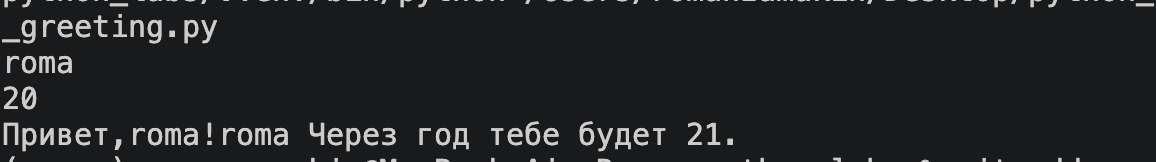
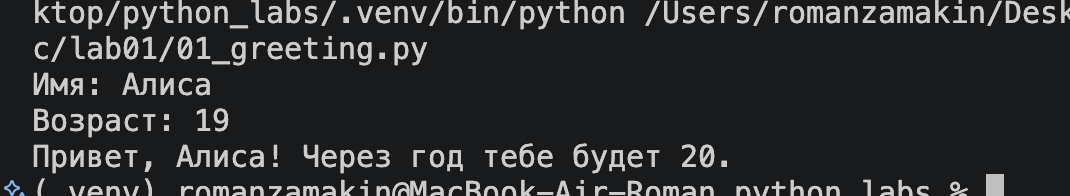
lab01 finish with readme

diff --git a/src/lab01/ex07.py b/src/lab01/ex07.py
@@ -10,12 +10,12 @@ for i in stroka:
         out += i
         k += 1
         start = cs
-for i in range(len(stroka) - 1):
+for i in range(start + 1, len(stroka) - 1):
     if stroka[i] in '0123456789':
         out += stroka[i + 1]
         fin = i
         break
-step = (fin + 1) - (start - 1)
+step = (fin + 1) - (start-1)
 for n in range(fin + 1 + step, len(stroka), step):
     out += stroka[n]
     if stroka[n] == '.':

diff --git a/src/lab01/02_sum_avg.py b/src/lab01/02_sum_avg.py
@@ -1,4 +1,3 @@
-a = input().replace(',','.')
-b = input().replace(',','.')
-print(float(a)+float(b))
-print(round(((float(a)+float(b))/2),2))
+a = input('a: ').replace(',','.')
+b = input('b: ').replace(',','.')
+print(f'sum={float(a)+float(b)}; avg={round(((float(a)+float(b))/2),2)}')

diff --git a/src/lab01/01_greeting.py b/src/lab01/01_greeting.py
@@ -1,3 +1,3 @@
-name = input()
-age = int(input())
-print(f"Привет,{name}! Через год тебе будет {age+1}.")
+name = input('Имя: ')
+age = int(input('Возраст: '))
+print(f"Привет, {name}! Через год тебе будет {age+1}.")

diff --git a/src/lab01/README.md b/src/lab01/README.md
@@ -1,1 +1,7 @@
-# python_labs
+ЛР1 — Ввод/вывод и форматирование
+
+Задание 1
+Вывод принта ![alt text](../../images/lab01/ex01.png)
+
+Задание 2
+С помощью инпутов ввожу 2 значения. Чтобы обеспечить возможность писать с точкой или запятой использую реплейс запятой на точку. Далее вывожу 2 

diff --git a/README.md b/README.md
@@ -1,1 +1,1 @@
-# python_labs
+Меня зовут Замякин Роман я студент группы БИВТ-26-6-2. Выполняю лабораторные работы по программированию и алгоритмизации.
